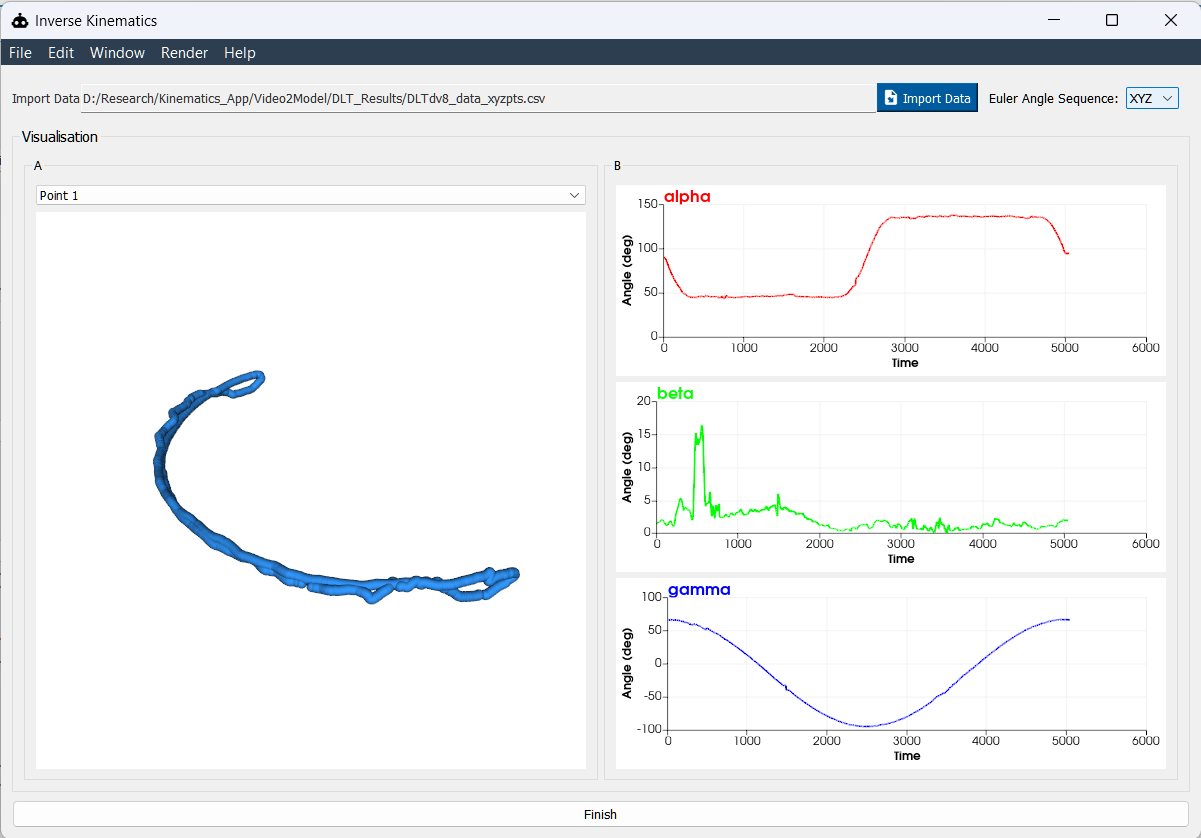
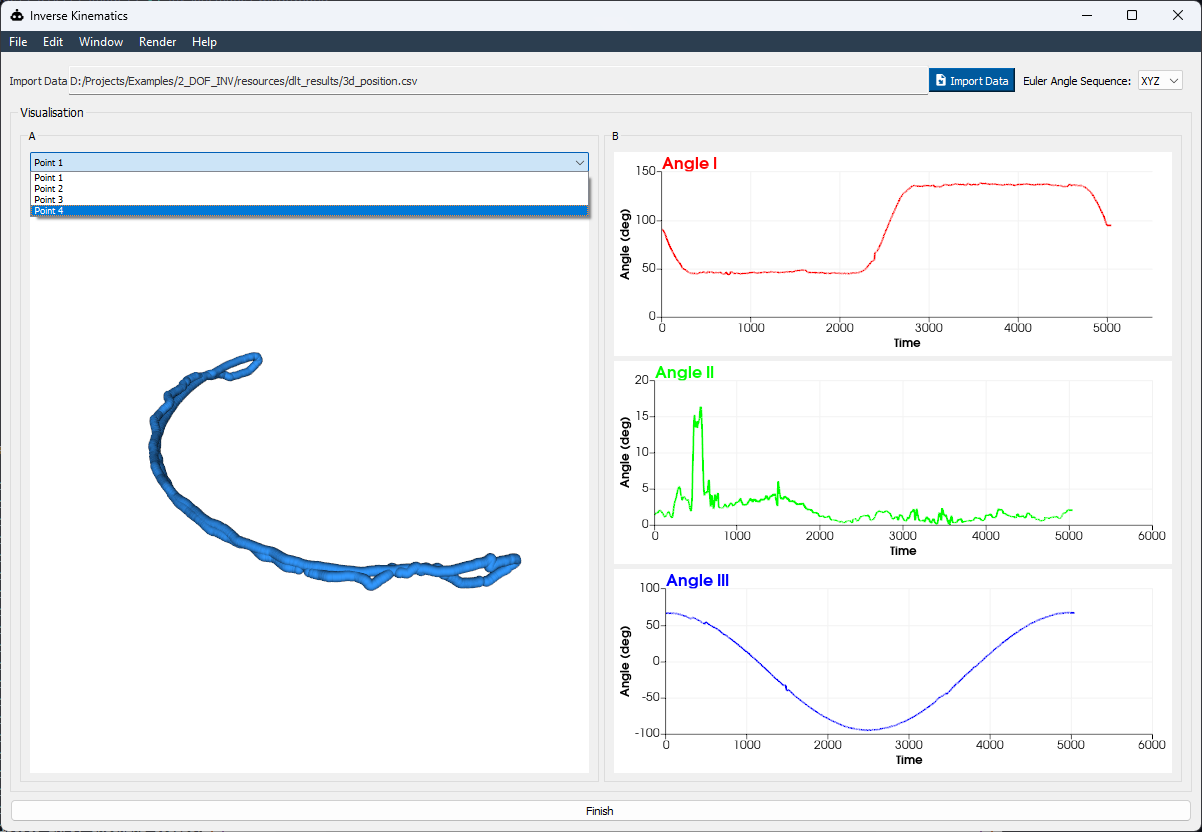
Update docs images

diff --git a/app/ui/creators/sprite_creator.py b/app/ui/creators/sprite_creator.py
@@ -368,7 +368,7 @@ class SpriteCreator(QMainWindow):
         rotation_label = QLabel("Rotation Transform:")
         rotation_label.setFont(QFont('Times', 7))
         self.rotation_transform = QComboBox()
-        self.rotation_transform.addItems(["Constant", "Euler_Angles", "Custom"])
+        self.rotation_transform.addItems(["Constant", "Euler_Angles"])
         self.rotation_transform.currentIndexChanged.connect(self.rotation_transform_fun)
         self.rotation_transform_layout.addWidget(self.rotation_transform)
         transformation_group_layout.addRow(rotation_label, self.rotation_transform_layout)
@@ -378,7 +378,7 @@ class SpriteCreator(QMainWindow):
         flexibility_label = QLabel("Flexibility Transform:")
         flexibility_label.setFont(QFont('Times', 7))
         self.flexibility_transform = QComboBox()
-        self.flexibility_transform.addItems(["Constant", "FlexibleType1", "FlexibleType2", "Custom"])
+        self.flexibility_transform.addItems(["Constant", "FlexibleType1", "FlexibleType2"])
         self.flexibility_transform.currentIndexChanged.connect(self.flexibility_transform_fun)
         self.flexibility_transform_layout.addWidget(self.flexibility_transform)
         transformation_group_layout.addRow(flexibility_label, self.flexibility_transform_layout)
@@ -851,7 +851,7 @@ class SpriteCreator(QMainWindow):
 
         hbox = QHBoxLayout()
         self.position_input = QLineEdit()
-        self.position_input.setPlaceholderText("Time series of COM position")
+        self.position_input.setPlaceholderText("Time series of body origin position")
 
         self.open_position = QPushButton("Open")
         self.open_position.setFont(QFont('Times', 7))

diff --git a/app/core/invkinematics.py b/app/core/invkinematics.py
@@ -686,9 +686,9 @@ class InvKineWindow(QMainWindow):
             chart.GetTitleProperties().ShallowCopy(text_prop)
 
         # Update each chart with new data
-        update_chart(self.chart_r_1, alpha_values, "alpha", (1, 0, 0))  # Red
-        update_chart(self.chart_r_2, beta_values, "beta", (0, 1, 0))  # Green
-        update_chart(self.chart_r_3, gamma_values, "gamma", (0, 0, 1))  # Blue
+        update_chart(self.chart_r_1, alpha_values, "Angle I", (1, 0, 0))  # Red
+        update_chart(self.chart_r_2, beta_values, "Angle II", (0, 1, 0))  # Green
+        update_chart(self.chart_r_3, gamma_values, "Angle III", (0, 0, 1))  # Blue
 
         # Render updated charts
         self.vtkWidget_r_1.GetRenderWindow().Render()
